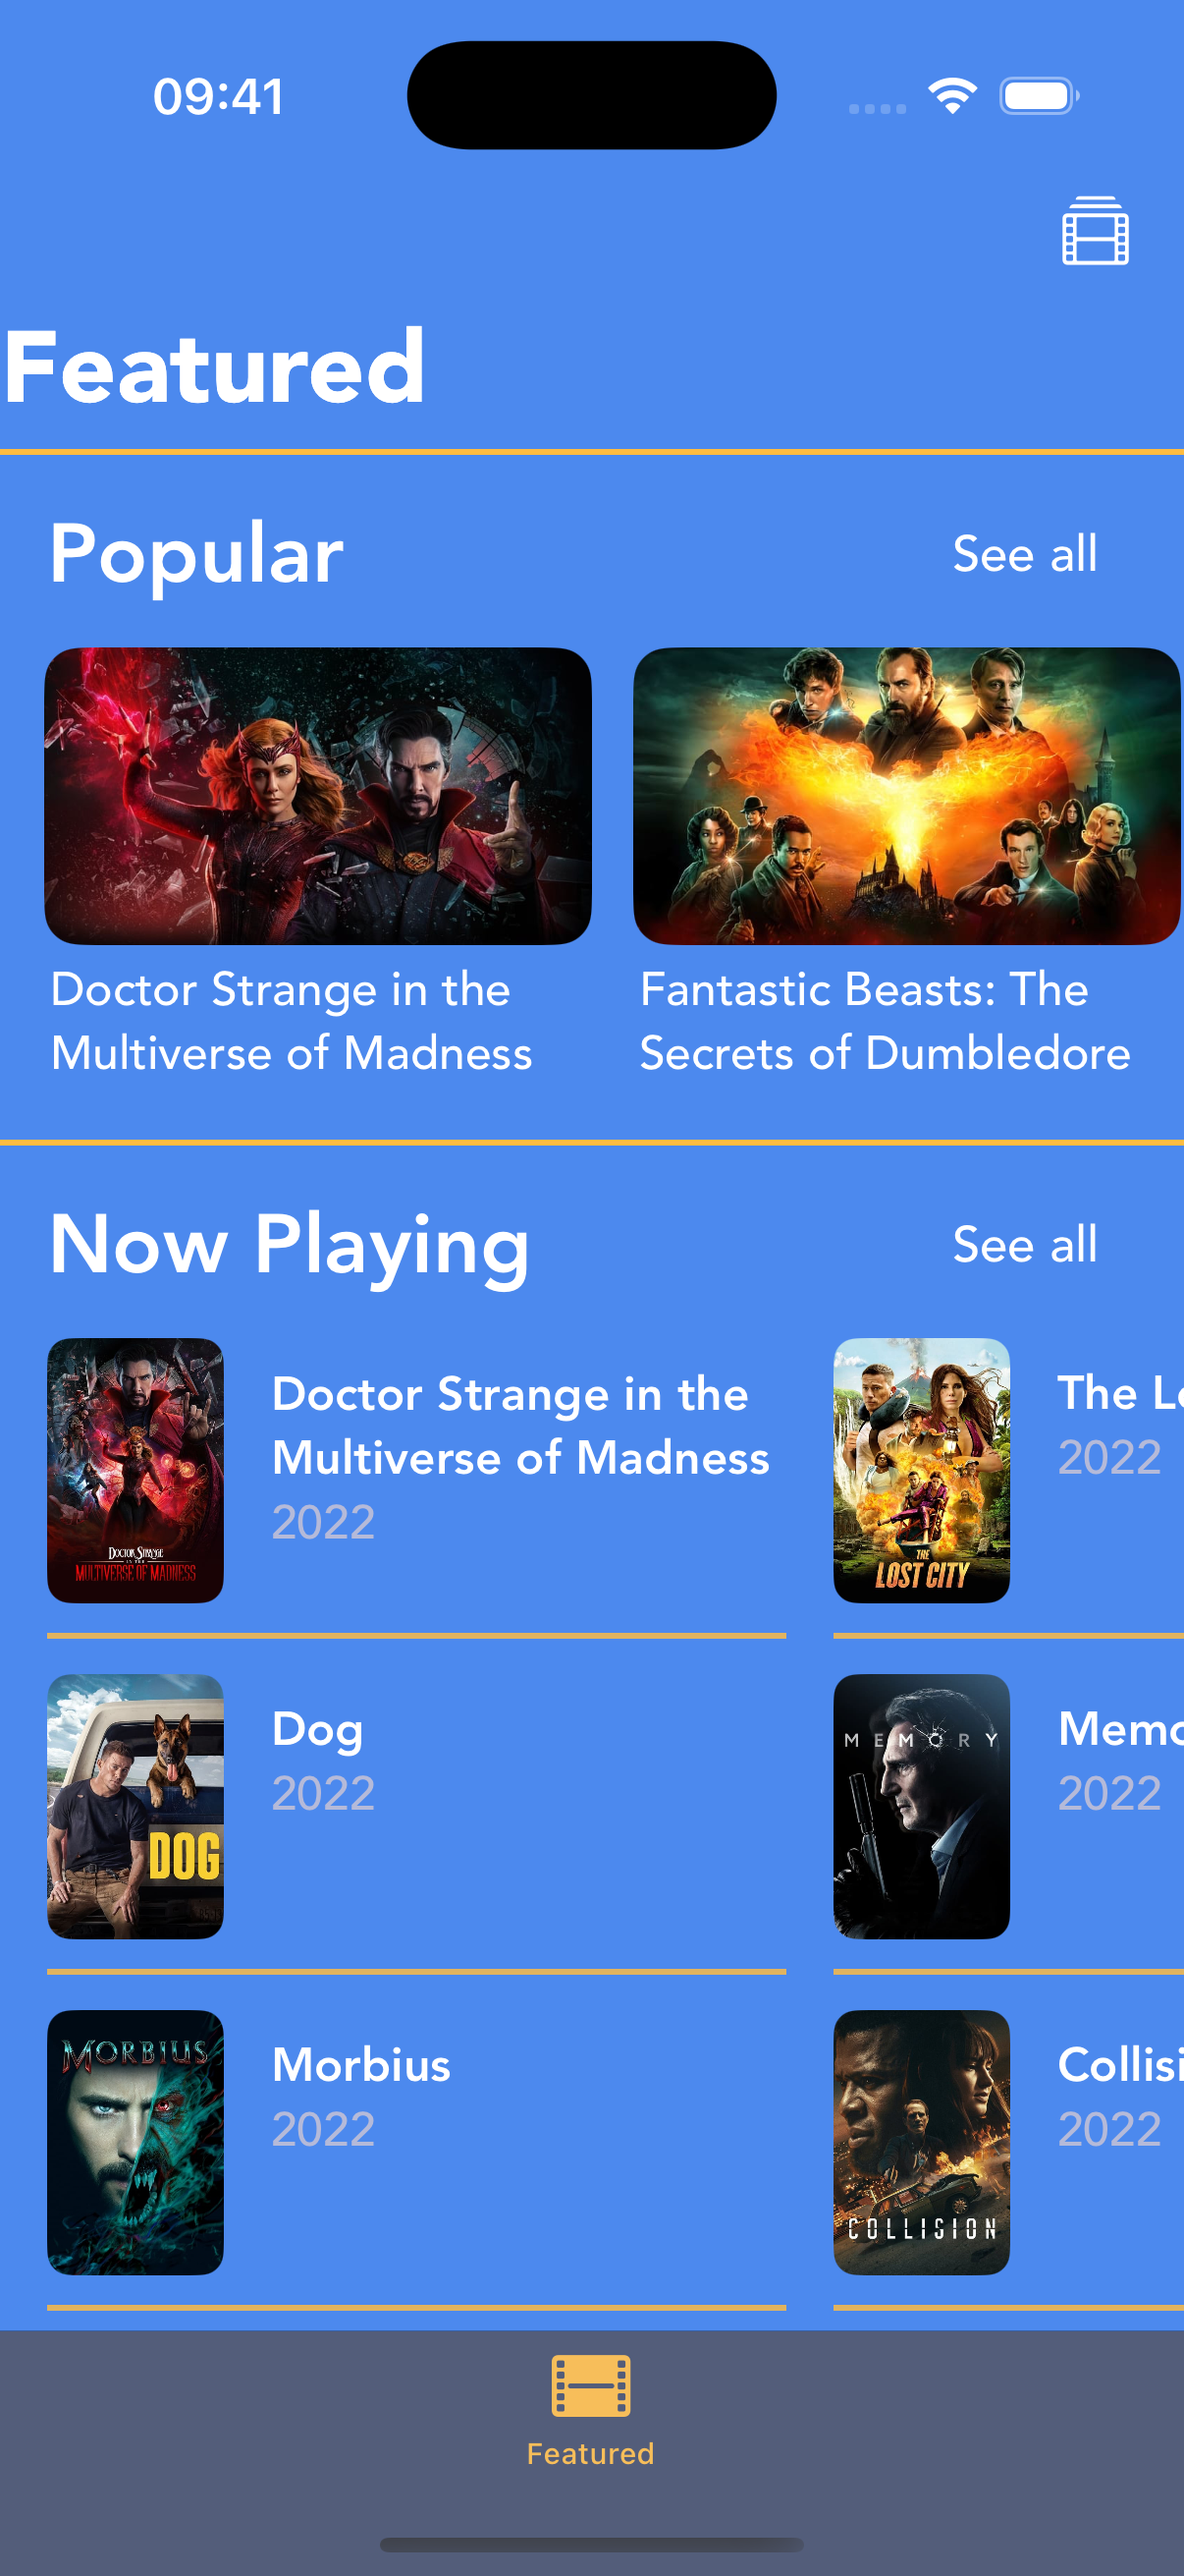
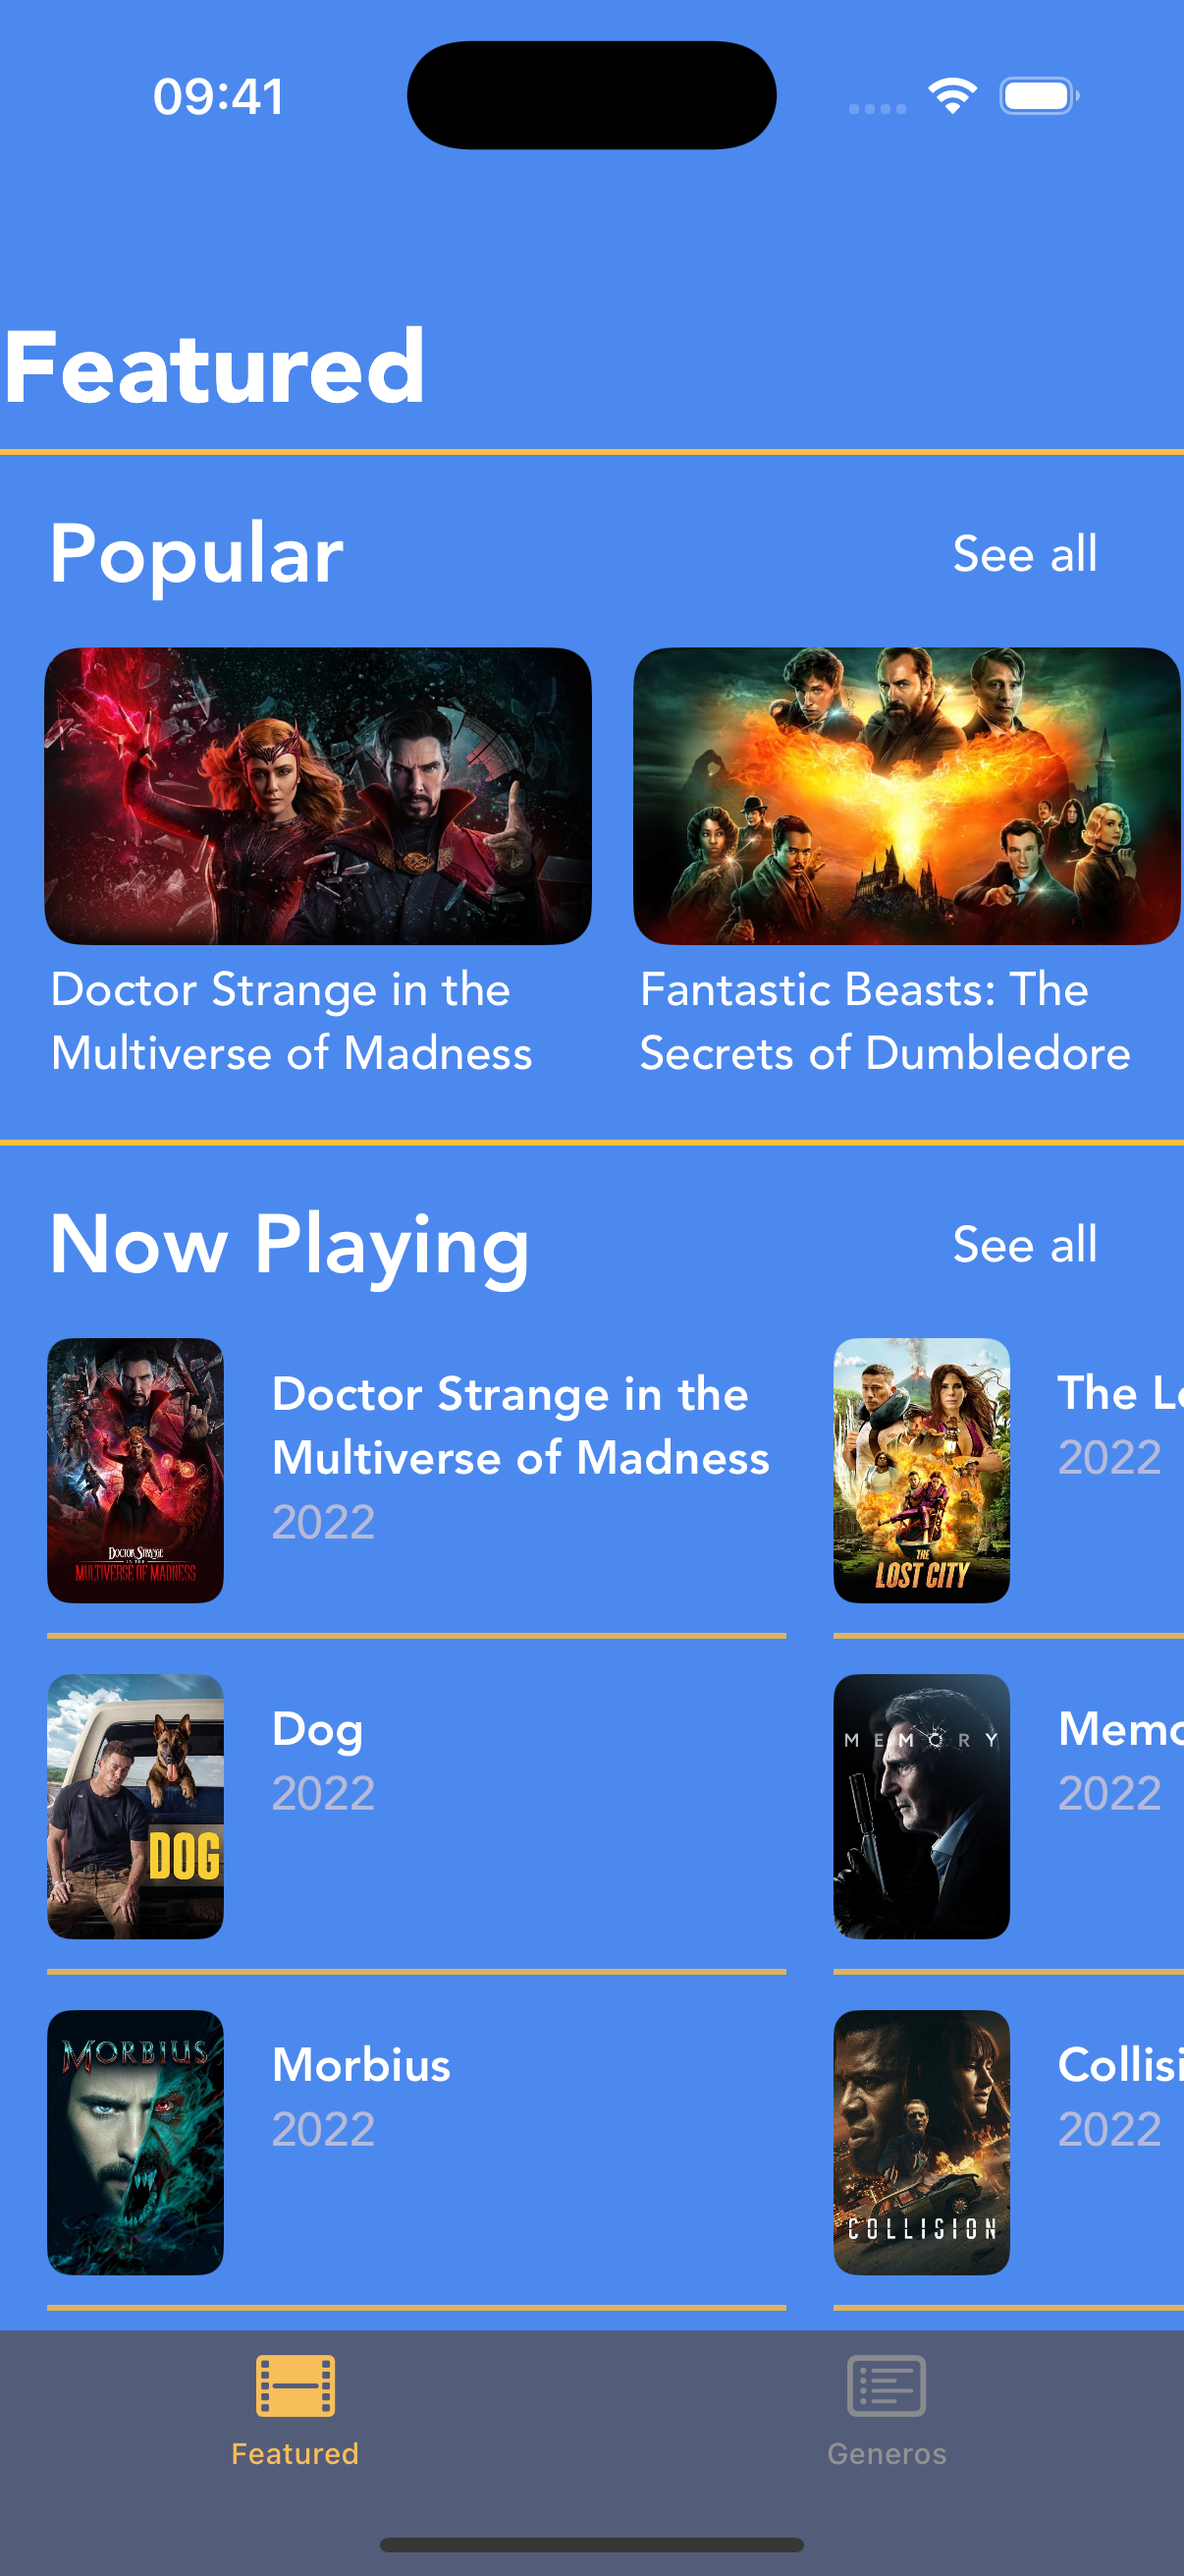
Move generos para tab bar e melhora UX
- Generos agora e uma tab dedicada com icone e legenda clara
- Remove icone confuso da nav bar
- Subtitulo explicativo na tela de generos
- Melhor espacamento no SeeAllViewController
- Hierarquia visual mais clara entre telas

diff --git a/Encontre_Aqui/SceneDelegate.swift b/Encontre_Aqui/SceneDelegate.swift
@@ -4,42 +4,39 @@ class SceneDelegate: UIResponder, UIWindowSceneDelegate {
 
     var window: UIWindow?
 
-
     func scene(_ scene: UIScene, willConnectTo session: UISceneSession, options connectionOptions: UIScene.ConnectionOptions) {
-        // Use this method to optionally configure and attach the UIWindow `window` to the provided UIWindowScene `scene`.
-        // If using a storyboard, the `window` property will automatically be initialized and attached to the scene.
-        // This delegate does not imply the connecting scene or session are new (see `application:configurationForConnectingSceneSession` instead).
         guard let _ = (scene as? UIWindowScene) else { return }
+
+        // Add Genres tab to the existing TabBarController from Storyboard
+        if let tabBarController = window?.rootViewController as? UITabBarController {
+            let genresVC = GenresViewController()
+            let genresNav = UINavigationController(rootViewController: genresVC)
+
+            genresNav.navigationBar.prefersLargeTitles = true
+            genresNav.navigationBar.barTintColor = UIColor(red: 0.314, green: 0.498, blue: 0.933, alpha: 1)
+            genresNav.navigationBar.tintColor = .white
+            genresNav.navigationBar.titleTextAttributes = [
+                .foregroundColor: UIColor.white,
+                .font: UIFont(name: "Avenir-Medium", size: 19) ?? .systemFont(ofSize: 19)
+            ]
+            genresNav.navigationBar.largeTitleTextAttributes = [
+                .foregroundColor: UIColor.white,
+                .font: UIFont(name: "Avenir-Black", size: 34) ?? .boldSystemFont(ofSize: 34)
+            ]
+
+            genresNav.tabBarItem = UITabBarItem(
+                title: "Generos",
+                image: UIImage(systemName: "list.bullet.rectangle"),
+                selectedImage: UIImage(systemName: "list.bullet.rectangle.fill")
+            )
+
+            tabBarController.viewControllers?.append(genresNav)
+        }
     }
 
-    func sceneDidDisconnect(_ scene: UIScene) {
-        // Called as the scene is being released by the system.
-        // This occurs shortly after the scene enters the background, or when its session is discarded.
-        // Release any resources associated with this scene that can be re-created the next time the scene connects.
-        // The scene may re-connect later, as its session was not necessarily discarded (see `application:didDiscardSceneSessions` instead).
-    }
-
-    func sceneDidBecomeActive(_ scene: UIScene) {
-        // Called when the scene has moved from an inactive state to an active state.
-        // Use this method to restart any tasks that were paused (or not yet started) when the scene was inactive.
-    }
-
-    func sceneWillResignActive(_ scene: UIScene) {
-        // Called when the scene will move from an active state to an inactive state.
-        // This may occur due to temporary interruptions (ex. an incoming phone call).
-    }
-
-    func sceneWillEnterForeground(_ scene: UIScene) {
-        // Called as the scene transitions from the background to the foreground.
-        // Use this method to undo the changes made on entering the background.
-    }
-
-    func sceneDidEnterBackground(_ scene: UIScene) {
-        // Called as the scene transitions from the foreground to the background.
-        // Use this method to save data, release shared resources, and store enough scene-specific state information
-        // to restore the scene back to its current state.
-    }
-
-
+    func sceneDidDisconnect(_ scene: UIScene) { }
+    func sceneDidBecomeActive(_ scene: UIScene) { }
+    func sceneWillResignActive(_ scene: UIScene) { }
+    func sceneWillEnterForeground(_ scene: UIScene) { }
+    func sceneDidEnterBackground(_ scene: UIScene) { }
 }
-

diff --git a/Encontre_Aqui/Controllers/GenresViewController.swift b/Encontre_Aqui/Controllers/GenresViewController.swift
@@ -8,7 +8,6 @@ class GenresViewController: UIViewController {
         movies.append(contentsOf: Movie.upcomingMovies())
         movies.append(contentsOf: Movie.trendingThisWeekMovies())
         movies.append(contentsOf: Movie.trendingTodayMovies())
-        // Remove duplicates by title
         var seen = Set<String>()
         return movies.filter { seen.insert($0.title).inserted }
     }()
@@ -23,13 +22,22 @@ class GenresViewController: UIViewController {
         return genreSet.sorted()
     }()
 
+    private let subtitleLabel: UILabel = {
+        let label = UILabel()
+        label.text = "Escolha um genero para descobrir filmes"
+        label.font = UIFont(name: "Avenir-Medium", size: 15)
+        label.textColor = UIColor(white: 1, alpha: 0.6)
+        label.translatesAutoresizingMaskIntoConstraints = false
+        return label
+    }()
+
     private lazy var collectionView: UICollectionView = {
         let layout = UICollectionViewFlowLayout()
         layout.minimumInteritemSpacing = 12
         layout.minimumLineSpacing = 12
-        layout.sectionInset = UIEdgeInsets(top: 16, left: 16, bottom: 16, right: 16)
+        layout.sectionInset = UIEdgeInsets(top: 8, left: 16, bottom: 16, right: 16)
         let cv = UICollectionView(frame: .zero, collectionViewLayout: layout)
-        cv.backgroundColor = UIColor(red: 0.357, green: 0.533, blue: 0.906, alpha: 1.0)
+        cv.backgroundColor = .clear
         cv.translatesAutoresizingMaskIntoConstraints = false
         cv.dataSource = self
         cv.delegate = self
@@ -41,9 +49,16 @@ class GenresViewController: UIViewController {
         super.viewDidLoad()
         title = "Generos"
         view.backgroundColor = UIColor(red: 0.357, green: 0.533, blue: 0.906, alpha: 1.0)
+
+        view.addSubview(subtitleLabel)
         view.addSubview(collectionView)
+
         NSLayoutConstraint.activate([
-            collectionView.topAnchor.constraint(equalTo: view.safeAreaLayoutGuide.topAnchor),
+            subtitleLabel.topAnchor.constraint(equalTo: view.safeAreaLayoutGuide.topAnchor, constant: 4),
+            subtitleLabel.leadingAnchor.constraint(equalTo: view.leadingAnchor, constant: 16),
+            subtitleLabel.trailingAnchor.constraint(equalTo: view.trailingAnchor, constant: -16),
+
+            collectionView.topAnchor.constraint(equalTo: subtitleLabel.bottomAnchor, constant: 12),
             collectionView.leadingAnchor.constraint(equalTo: view.leadingAnchor),
             collectionView.trailingAnchor.constraint(equalTo: view.trailingAnchor),
             collectionView.bottomAnchor.constraint(equalTo: view.bottomAnchor)
@@ -63,8 +78,7 @@ extension GenresViewController: UICollectionViewDataSource {
     func collectionView(_ collectionView: UICollectionView, cellForItemAt indexPath: IndexPath) -> UICollectionViewCell {
         let cell = collectionView.dequeueReusableCell(withReuseIdentifier: GenreCell.identifier, for: indexPath) as! GenreCell
         let genre = genres[indexPath.item]
-        let count = movies(for: genre).count
-        cell.configure(genre: genre, count: count)
+        cell.configure(genre: genre, count: movies(for: genre).count)
         return cell
     }
 }

diff --git a/Encontre_Aqui/Controllers/SeeAllViewController.swift b/Encontre_Aqui/Controllers/SeeAllViewController.swift
@@ -8,8 +8,8 @@ class SeeAllViewController: UIViewController {
     private lazy var collectionView: UICollectionView = {
         let layout = UICollectionViewFlowLayout()
         layout.minimumInteritemSpacing = 12
-        layout.minimumLineSpacing = 16
-        layout.sectionInset = UIEdgeInsets(top: 16, left: 16, bottom: 16, right: 16)
+        layout.minimumLineSpacing = 20
+        layout.sectionInset = UIEdgeInsets(top: 12, left: 16, bottom: 16, right: 16)
         let cv = UICollectionView(frame: .zero, collectionViewLayout: layout)
         cv.backgroundColor = UIColor(red: 0.357, green: 0.533, blue: 0.906, alpha: 1.0)
         cv.translatesAutoresizingMaskIntoConstraints = false
@@ -22,6 +22,7 @@ class SeeAllViewController: UIViewController {
     override func viewDidLoad() {
         super.viewDidLoad()
         title = sectionTitle
+        navigationItem.largeTitleDisplayMode = .never
         view.backgroundColor = UIColor(red: 0.357, green: 0.533, blue: 0.906, alpha: 1.0)
         view.addSubview(collectionView)
         NSLayoutConstraint.activate([
@@ -40,8 +41,7 @@ extension SeeAllViewController: UICollectionViewDataSource {
 
     func collectionView(_ collectionView: UICollectionView, cellForItemAt indexPath: IndexPath) -> UICollectionViewCell {
         let cell = collectionView.dequeueReusableCell(withReuseIdentifier: SeeAllCell.identifier, for: indexPath) as! SeeAllCell
-        let movie = movies[indexPath.item]
-        cell.configure(with: movie)
+        cell.configure(with: movies[indexPath.item])
         return cell
     }
 }

diff --git a/Encontre_Aqui/Controllers/FeaturedViewController.swift b/Encontre_Aqui/Controllers/FeaturedViewController.swift
@@ -28,13 +28,6 @@ class FeaturedViewController: UIViewController {
         seeAllNowPlayingButton.addTarget(self, action: #selector(seeAllNowPlayingTapped), for: .touchUpInside)
         seeAllUpcomingButton.addTarget(self, action: #selector(seeAllUpcomingTapped), for: .touchUpInside)
 
-        navigationItem.rightBarButtonItem = UIBarButtonItem(
-            image: UIImage(systemName: "film.stack"),
-            style: .plain,
-            target: self,
-            action: #selector(genresTapped)
-        )
-        navigationItem.rightBarButtonItem?.tintColor = .white
     }
 
     override func prepare(for segue: UIStoryboardSegue, sender: Any?) {
@@ -65,8 +58,4 @@ class FeaturedViewController: UIViewController {
         navigationController?.pushViewController(vc, animated: true)
     }
 
-    @objc private func genresTapped() {
-        let vc = GenresViewController()
-        navigationController?.pushViewController(vc, animated: true)
-    }
 }
